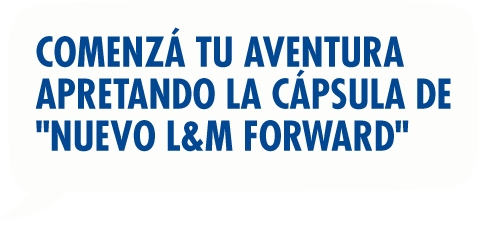
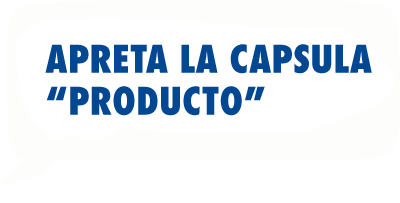
musica al kisoko + fix textos
se agrego musica al kiosko y se simplificaron las burbujas de texto

Changed region(s): [[0.06, 0.1182, 0.96, 0.6502]]

diff --git a/kiosko.html b/kiosko.html
@@ -11,6 +11,9 @@
     <link rel="icon" href="images/favicon.png">
 </head>
 <body>
+
+    <audio id="music" src="audio/music.mp3"></audio>
+
     <div id="CARGANDO" class="lds-ring"><div></div><div></div><div></div><div></div></div>
     
     <div class="kiosko noDisplay">

diff --git a/scripts/kiosko.js b/scripts/kiosko.js
@@ -46,4 +46,11 @@ function start() {
 
     // repetidor de bubbles
     // setInterval(createBubble, 133)
+
+
+    const music = document.getElementById('music');
+    music.pause();
+    music.currentTime = 0;
+    music.volume = 0.3;
+    music.play();
 }
